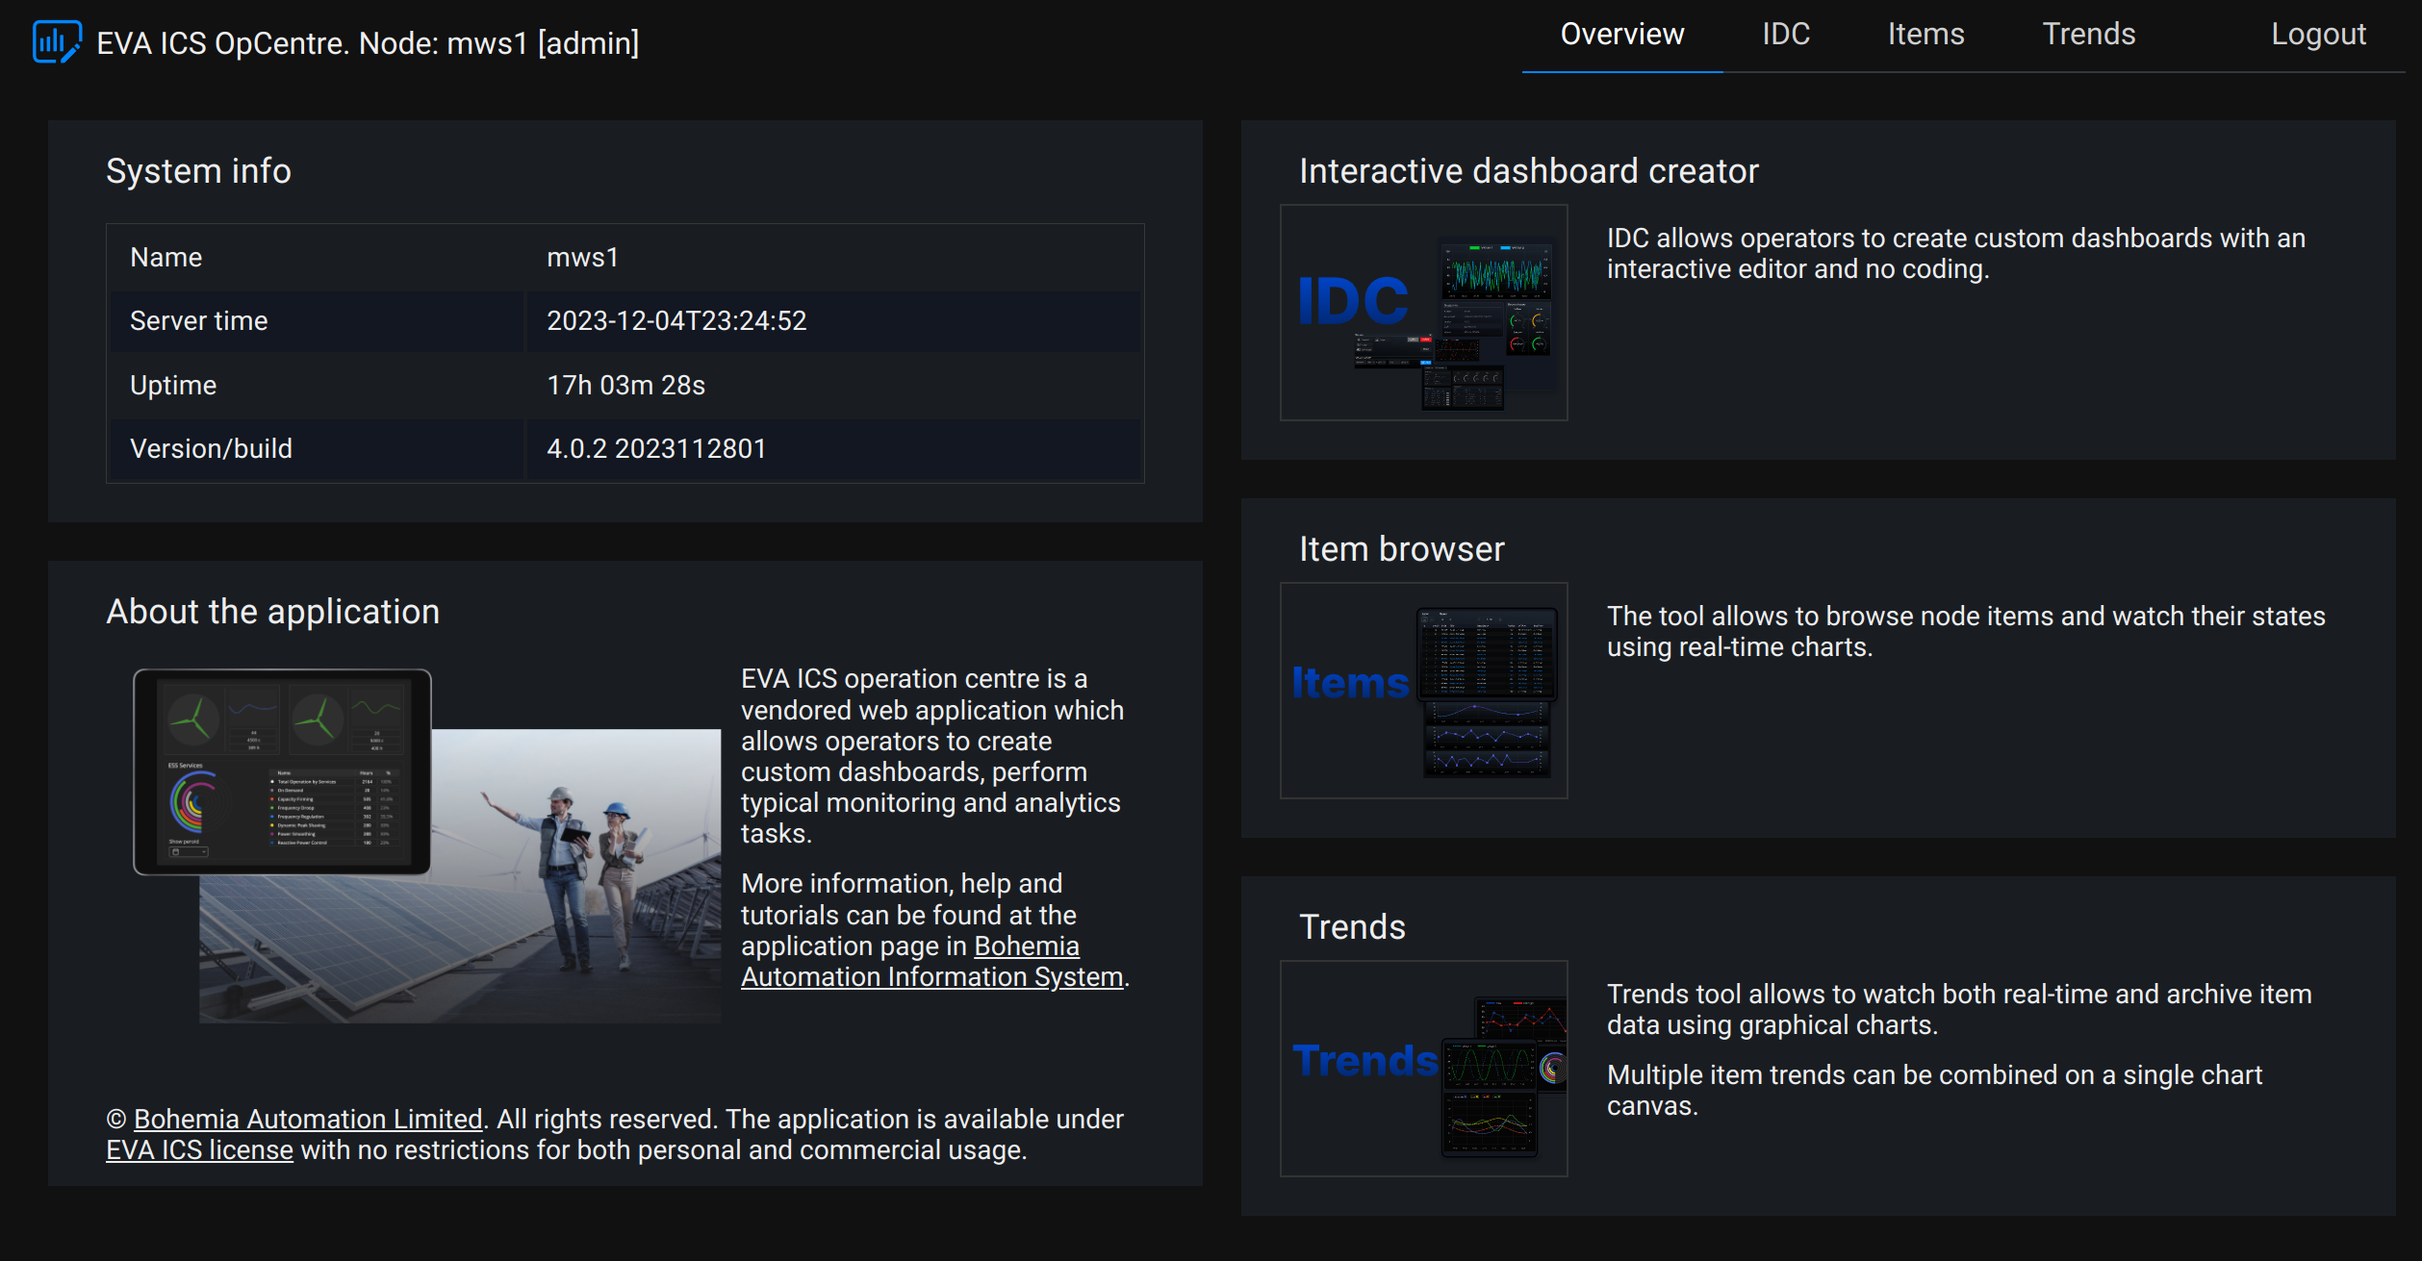
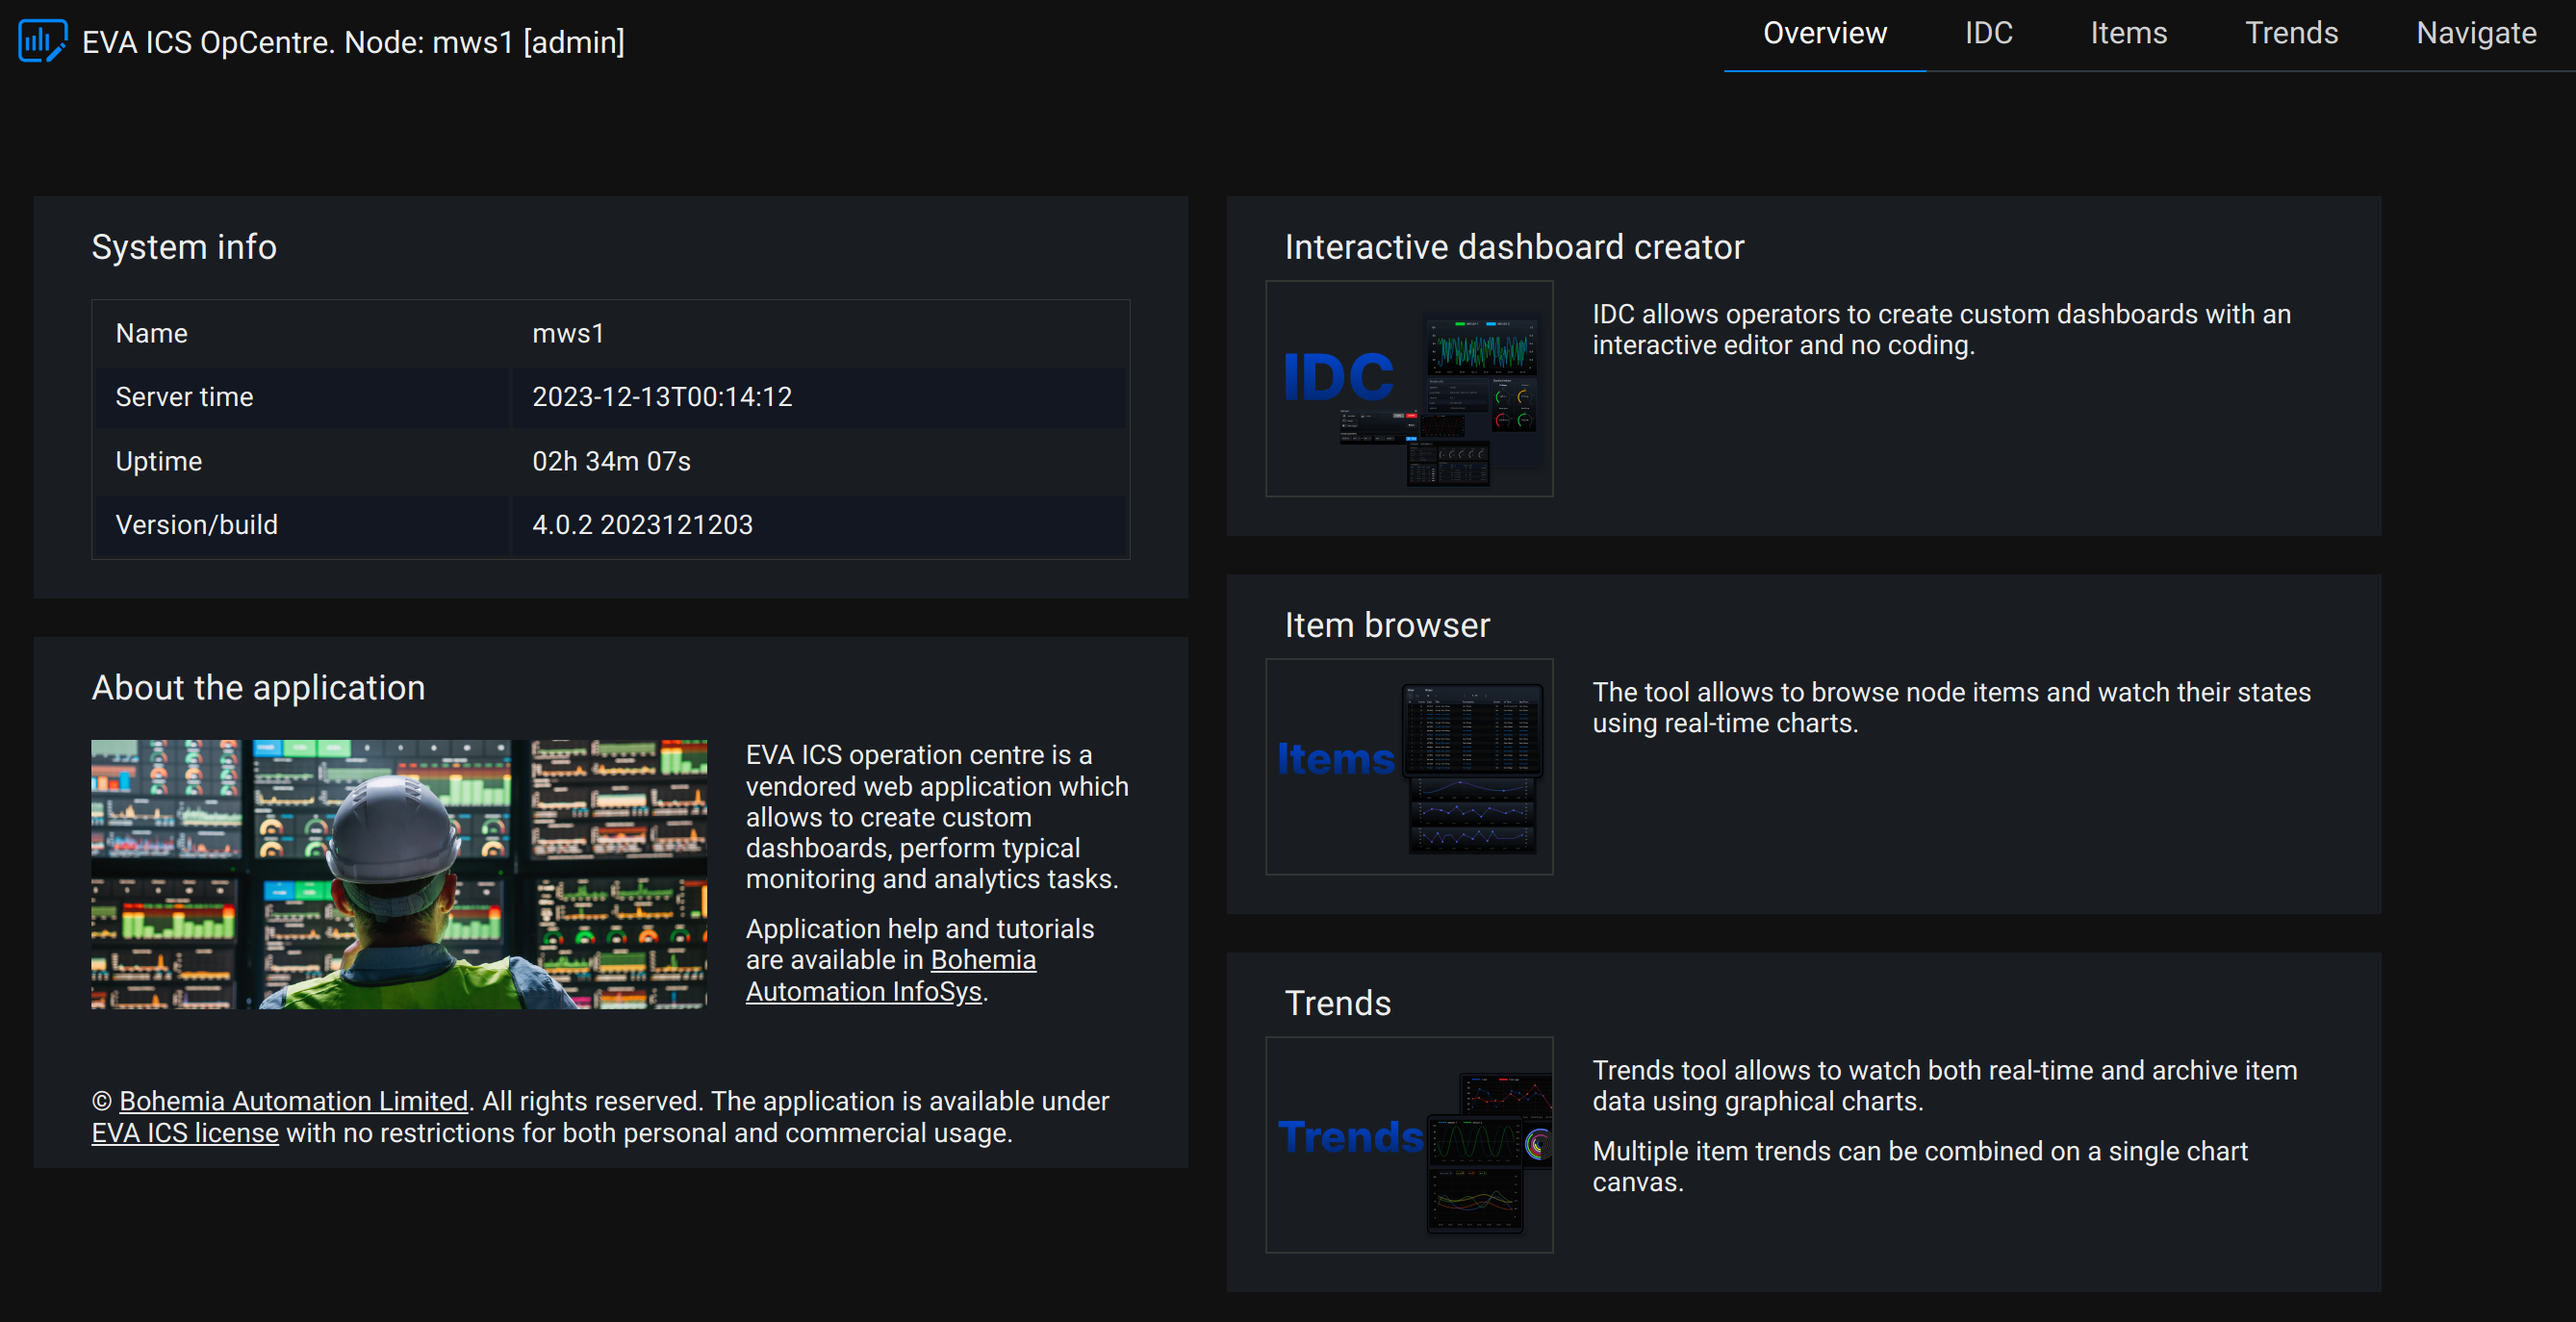
2023121301

diff --git a/eva4/changelog.rst b/eva4/changelog.rst
@@ -4,6 +4,7 @@ EVA ICS CHANGELOG
 4.0.2-stable
 ============
 
+* 2023-12-13 build 2023121301: Stability fixes, Vendored apps navigation
 * 2023-12-12 build 2023121203: Stability fixes, OpCentre improvements
 * 2023-12-06 build 2023120601: FFI svc fixes for non-native builds, Pub/Sub (MQTT) controller
 * 2023-12-05 build 2023120501: Operation Centre vendored UI app
